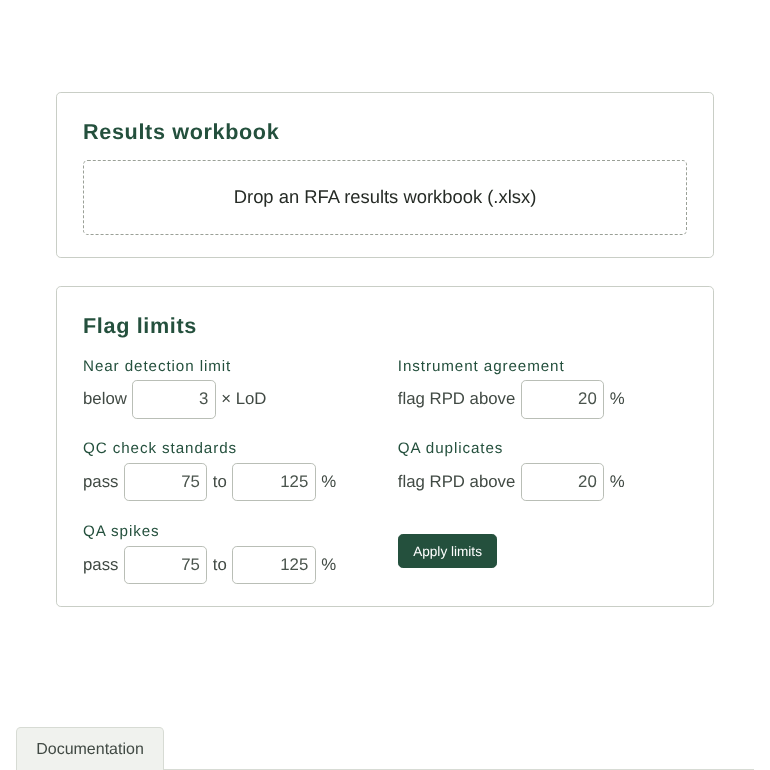
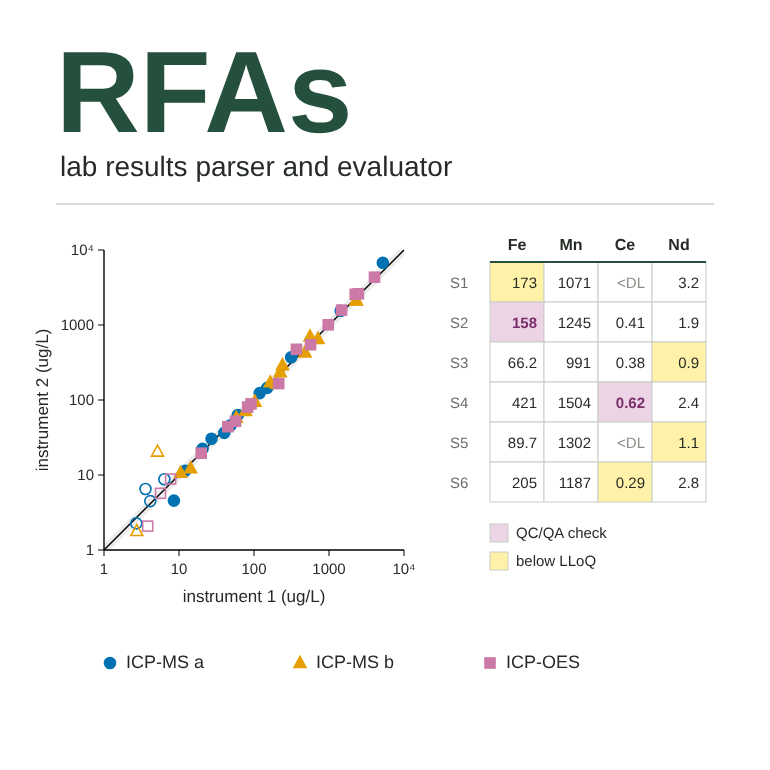
Tools category for the lab results parser, smaller project cards, new thumbnail

diff --git a/_sass/_terra.scss b/_sass/_terra.scss
@@ -378,3 +378,8 @@ ninja-keys {
   border: 1px solid $site-divider;
   background: #fff;
 }
+
+// Tools page: smaller cards, so the software and tools rows fit on one screen
+.projects .card .card-body { padding: 0.6rem 0.75rem; }
+.projects .card .card-title { font-size: 1rem; }
+.projects .card .card-text { font-size: 0.82rem; line-height: 1.35; }

diff --git a/_pages/projects.md b/_pages/projects.md
@@ -5,7 +5,7 @@ permalink: /tools/
 description: Lab tools and calculators.
 nav: true
 nav_order: 3
-display_categories: [software, calculators]
+display_categories: [software, tools, calculators]
 horizontal: false
 ---
 
@@ -29,7 +29,7 @@ horizontal: false
     </div>
   </div>
   {% else %}
-  <div class="row row-cols-1 row-cols-md-3">
+  <div class="row row-cols-2 row-cols-md-4 row-cols-lg-5">
     {% for project in sorted_projects %}
       {% include projects.liquid %}
     {% endfor %}
@@ -55,7 +55,7 @@ horizontal: false
     </div>
   </div>
   {% else %}
-  <div class="row row-cols-1 row-cols-md-3">
+  <div class="row row-cols-2 row-cols-md-4 row-cols-lg-5">
     {% for project in sorted_projects %}
       {% include projects.liquid %}
     {% endfor %}

diff --git a/_projects/lab_results_parser.md b/_projects/lab_results_parser.md
@@ -4,6 +4,6 @@ title: Analytical Lab Results Parser and Evaluator
 description: Reads an ICP results workbook, compares the instruments side by side, flags QC and QA results outside limits, and writes conservative values, figures and a PDF report.
 img: assets/img/lab-results-parser-thumb.png
 importance: 2
-category: software
+category: tools
 redirect: /assets/html/lab-results-parser.html
 ---
